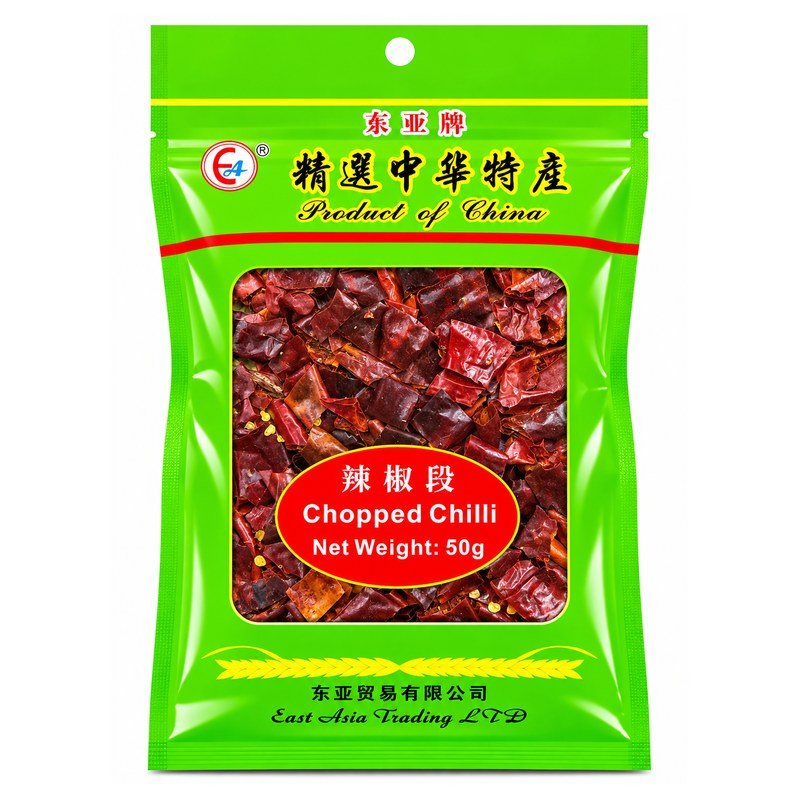
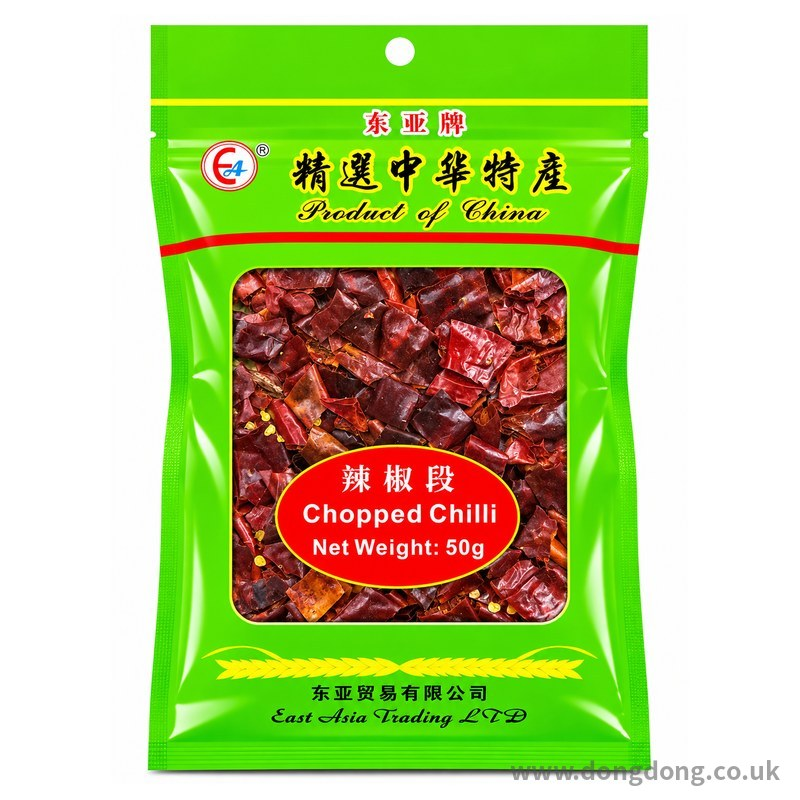
东亚切辣椒 50g 换高清图；香爆脆两款名字错字更正
Claude-Session: https://claude.ai/code/session_01EapkdAZuY1J5DZKGNmtVd8

diff --git a/classic.html b/classic.html
@@ -1362,7 +1362,7 @@ const PRODUCTS_RAW=[
  {"c": "spice", "zh": "东亚花椒粉", "en": "East Asia Sichuan Pepper Powder", "spec": "250g", "price": 3.25, "img": "img/nw_q13_14.jpg"},
  {"c": "spice", "zh": "正丰花椒粉", "en": "Zheng Feng Sichuan Pepper Powder", "spec": "100g", "price": 1.69, "img": "img2/q13_15.jpg"},
  {"c": "spice", "zh": "东亚 East Asia 辣椒干", "en": "East Asia 东亚 Dried Chilli", "spec": "25g", "price": 0.99, "img": "img/hd2_ea_chilli25.jpg"},
- {"c": "spice", "zh": "东亚 East Asia 切辣椒", "en": "East Asia 东亚 Chopped Chillies", "spec": "50g", "price": 1.09, "img": "img/hd_dd13_09.jpg"},
+ {"c": "spice", "zh": "东亚 East Asia 切辣椒", "en": "East Asia 东亚 Chopped Chillies", "spec": "50g", "price": 1.09, "img": "img/hd2_ea_choppedchilli50.jpg", "kw": "辣椒段 辣椒碎 chopped chilli"},
  {"c": "spice", "zh": "东亚 East Asia 辣椒干", "en": "East Asia 东亚 Dried Chilli", "spec": "50g", "price": 0.99, "img": "img/hd_dd13_12.jpg"},
  {"c": "spice", "zh": "东亚 East Asia 孜然粒", "en": "East Asia 东亚 Dried Cumin", "spec": "114g", "price": 1.39, "img": "img/hd_dy_cumin.jpg"},
  {"c": "spice", "zh": "东亚 East Asia 孜然粉", "en": "East Asia 东亚 Cumin Powder", "spec": "250g", "price": 2.35, "img": "img/hd_dy_cuminpowder.jpg"},
@@ -1857,8 +1857,8 @@ const PRODUCTS_RAW=[
 {"c": "chips", "zh": "康师傅香爆脆干脆面 快乐芝士火鸡味", "en": "Master Kong Crispy Noodle Snack Cheese Turkey", "price": 0.5, "img": "img/sw_xbc_turkey.jpg"},
 {"c": "chips", "zh": "小浣熊烤翅味干脆面", "en": "Raccoon Grilled Wing Crispy Noodles", "spec": "40g", "price": 0.49, "img": "img6/s2_17.jpg", "oos": true},
  {"c": "chips", "zh": "小浣熊BBQ味干脆面", "en": "Raccoon BBQ Crispy Noodles", "spec": "70g", "price": 0.49, "img": "img/sw_xhx_bbq70.jpg"},
- {"c": "chips", "zh": "康师傅奇爆脆芝士辣味", "en": "Master Kong Crispy Snack Cheese & Chilli", "spec": "33g", "price": 0.49, "img": "img6/s2_19.jpg"},
- {"c": "chips", "zh": "康师傅奇爆脆麻辣味", "en": "Master Kong Crispy Snack Mala", "spec": "33g", "price": 0.49, "img": "img6/s2_20.jpg"},
+ {"c": "chips", "zh": "康师傅香爆脆 芝士辣味", "en": "Master Kong Crispy Snack Cheese & Chilli", "spec": "33g", "price": 0.49, "img": "img6/s2_19.jpg"},
+ {"c": "chips", "zh": "康师傅香爆脆 麻辣味", "en": "Master Kong Crispy Snack Mala", "spec": "33g", "price": 0.49, "img": "img6/s2_20.jpg"},
  {"c": "meatsnack", "zh": "有友泡凤爪 山椒味", "en": "Youyou Pickled Pepper Chicken Feet", "spec": "138g", "price": 2.39, "img": "img/sw_yy_pfz138.jpg"},
  {"c": "meatsnack", "zh": "有友泡凤爪 山椒味", "en": "Youyou Pickled Pepper Chicken Feet", "spec": "70g", "price": 1.89, "img": "img/sw_yy_pfz70.jpg"},
  {"c": "spicy", "zh": "麻辣王子辣条 很麻很辣", "en": "Mala Wangzi Extra Spicy", "spec": "90g", "price": 1.49, "img": "img/hd2_mlwz_hot.jpg"},

diff --git a/index.html b/index.html
@@ -1543,7 +1543,7 @@ const PRODUCTS_RAW=[
  {"c": "spice", "zh": "东亚花椒粉", "en": "East Asia Sichuan Pepper Powder", "spec": "250g", "price": 3.25, "img": "img/nw_q13_14.jpg"},
  {"c": "spice", "zh": "正丰花椒粉", "en": "Zheng Feng Sichuan Pepper Powder", "spec": "100g", "price": 1.69, "img": "img2/q13_15.jpg"},
  {"c": "spice", "zh": "东亚 East Asia 辣椒干", "en": "East Asia 东亚 Dried Chilli", "spec": "25g", "price": 0.99, "img": "img/hd2_ea_chilli25.jpg"},
- {"c": "spice", "zh": "东亚 East Asia 切辣椒", "en": "East Asia 东亚 Chopped Chillies", "spec": "50g", "price": 1.09, "img": "img/hd_dd13_09.jpg"},
+ {"c": "spice", "zh": "东亚 East Asia 切辣椒", "en": "East Asia 东亚 Chopped Chillies", "spec": "50g", "price": 1.09, "img": "img/hd2_ea_choppedchilli50.jpg", "kw": "辣椒段 辣椒碎 chopped chilli"},
  {"c": "spice", "zh": "东亚 East Asia 辣椒干", "en": "East Asia 东亚 Dried Chilli", "spec": "50g", "price": 0.99, "img": "img/hd_dd13_12.jpg"},
  {"c": "spice", "zh": "东亚 East Asia 孜然粒", "en": "East Asia 东亚 Dried Cumin", "spec": "114g", "price": 1.39, "img": "img/hd_dy_cumin.jpg"},
  {"c": "spice", "zh": "东亚 East Asia 孜然粉", "en": "East Asia 东亚 Cumin Powder", "spec": "250g", "price": 2.35, "img": "img/hd_dy_cuminpowder.jpg"},
@@ -2038,8 +2038,8 @@ const PRODUCTS_RAW=[
 {"c": "chips", "zh": "康师傅香爆脆干脆面 快乐芝士火鸡味", "en": "Master Kong Crispy Noodle Snack Cheese Turkey", "price": 0.5, "img": "img/sw_xbc_turkey.jpg"},
 {"c": "chips", "zh": "小浣熊烤翅味干脆面", "en": "Raccoon Grilled Wing Crispy Noodles", "spec": "40g", "price": 0.49, "img": "img6/s2_17.jpg", "oos": true},
  {"c": "chips", "zh": "小浣熊BBQ味干脆面", "en": "Raccoon BBQ Crispy Noodles", "spec": "70g", "price": 0.49, "img": "img/sw_xhx_bbq70.jpg"},
- {"c": "chips", "zh": "康师傅奇爆脆芝士辣味", "en": "Master Kong Crispy Snack Cheese & Chilli", "spec": "33g", "price": 0.49, "img": "img6/s2_19.jpg"},
- {"c": "chips", "zh": "康师傅奇爆脆麻辣味", "en": "Master Kong Crispy Snack Mala", "spec": "33g", "price": 0.49, "img": "img6/s2_20.jpg"},
+ {"c": "chips", "zh": "康师傅香爆脆 芝士辣味", "en": "Master Kong Crispy Snack Cheese & Chilli", "spec": "33g", "price": 0.49, "img": "img6/s2_19.jpg"},
+ {"c": "chips", "zh": "康师傅香爆脆 麻辣味", "en": "Master Kong Crispy Snack Mala", "spec": "33g", "price": 0.49, "img": "img6/s2_20.jpg"},
  {"c": "meatsnack", "zh": "有友泡凤爪 山椒味", "en": "Youyou Pickled Pepper Chicken Feet", "spec": "138g", "price": 2.39, "img": "img/sw_yy_pfz138.jpg"},
  {"c": "meatsnack", "zh": "有友泡凤爪 山椒味", "en": "Youyou Pickled Pepper Chicken Feet", "spec": "70g", "price": 1.89, "img": "img/sw_yy_pfz70.jpg"},
  {"c": "spicy", "zh": "麻辣王子辣条 很麻很辣", "en": "Mala Wangzi Extra Spicy", "spec": "90g", "price": 1.49, "img": "img/hd2_mlwz_hot.jpg"},
